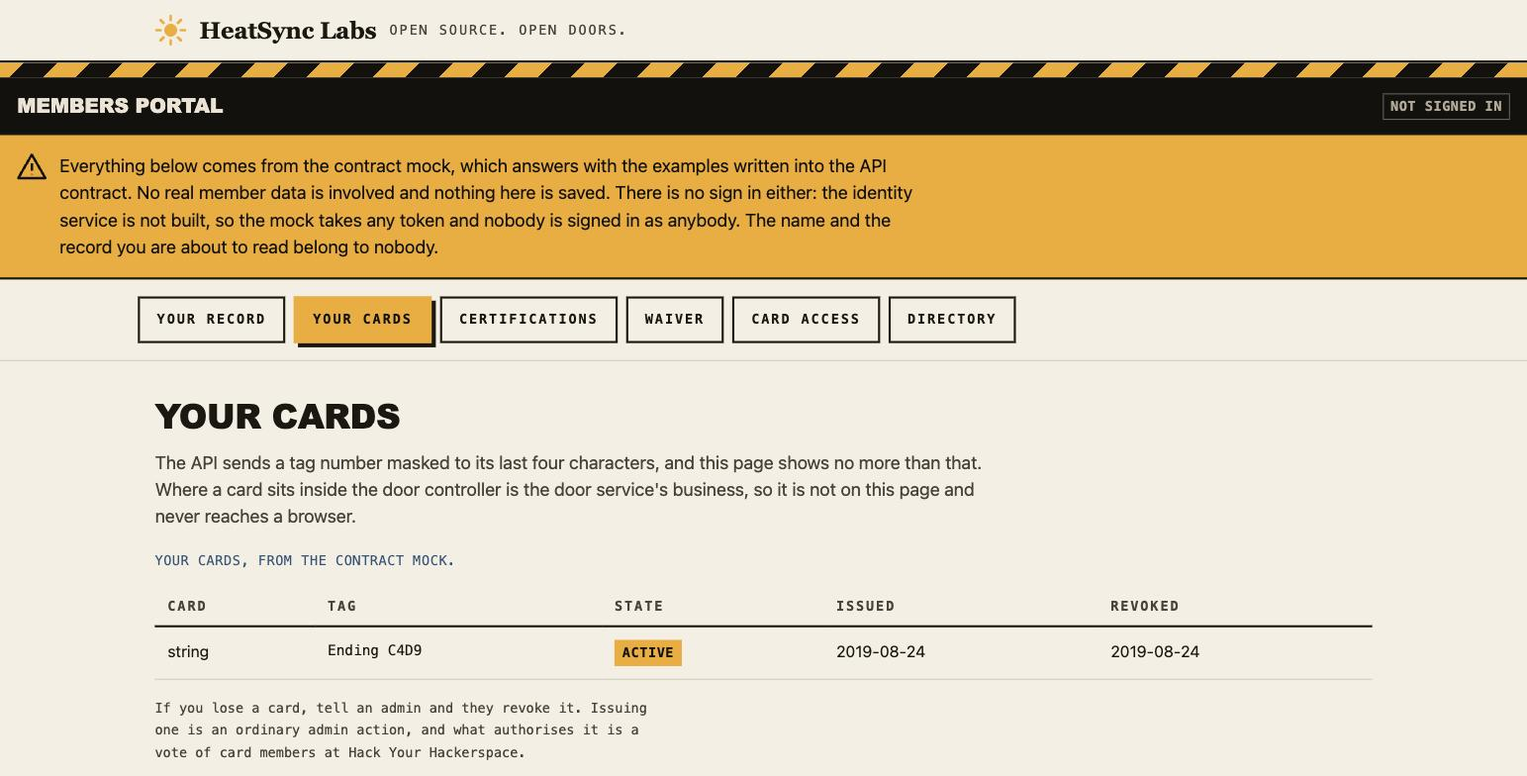
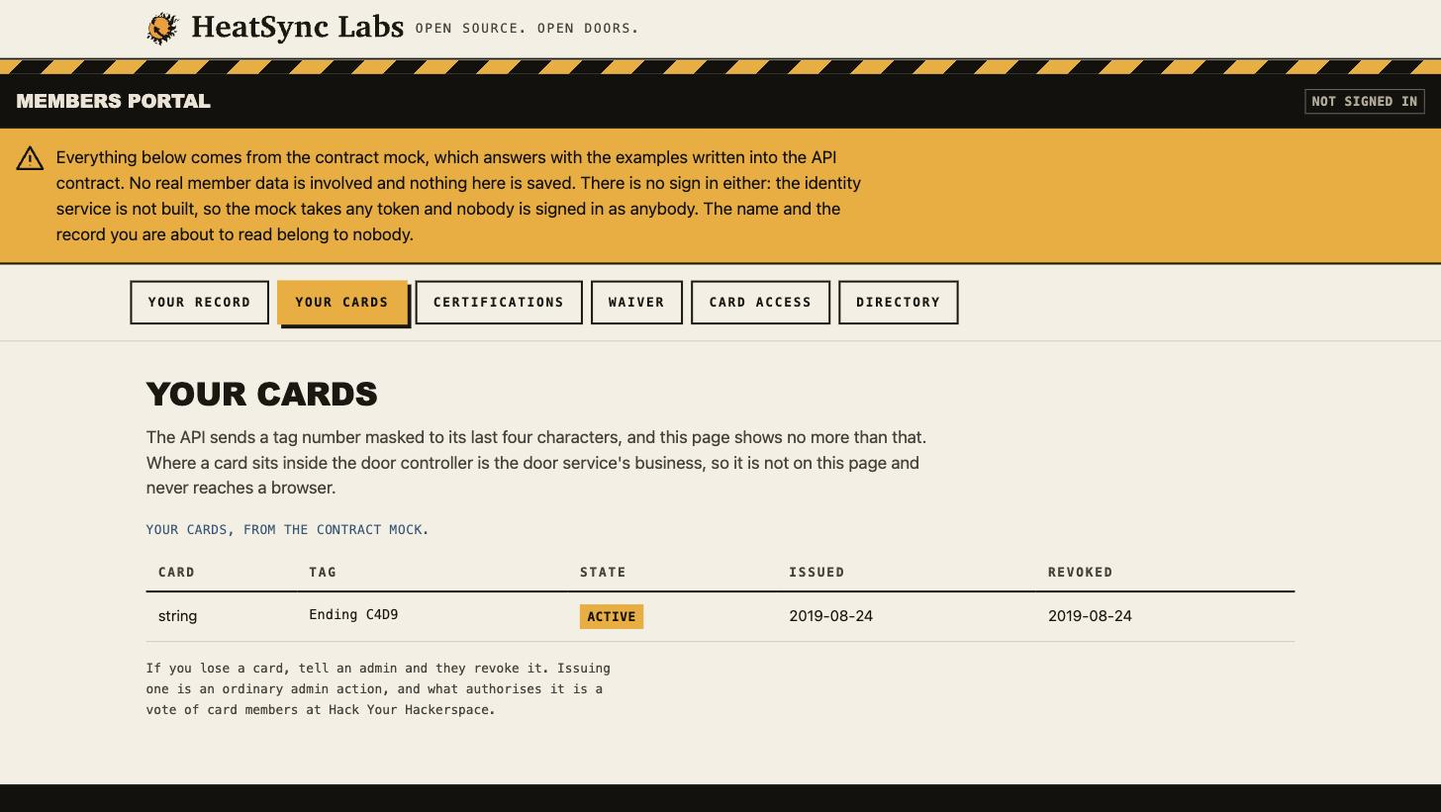
Correct the claims an audit found, including one I put in a commit
The backup row said a roles file is needed because every row level
security policy names oro_api or door_reader. That is false and it took
one command to show: no policy in db/migrations names a role, all
forty three default to PUBLIC. The roles file is needed, for the grants,
which is what the archive is full of. The same false sentence went into
tools/backup/README.md and into the commit message of 432fd1e, where it
cannot be corrected, so it is corrected here instead.

Section 2 carried two rows for docs/runbooks that disagreed, one saying
started and one saying not started, in the table that says of itself it
is the single place this is tracked. The stale one is gone.

The CI row said thirteen jobs were green on run 33231216898. Twelve were
green and the thirteenth was skipped, which the same sentence goes on to
explain about a later run.

The README said the API service is not built while its own roadmap ticked
the first slice four screens later. Both now say the same thing: it
exists, the portal does not read it, and wiring them together needs a
sign in.

The screenshots were the ones taken before the real mark landed, so the
README was illustrating the brand rule violation the commit before this
was written to remove. Retaken.

Two comments in the portal described code that is no longer there. The
one above .sunmark still described a hand drawn sun and sat directly
above the comment that replaced it, and it named a size the rule under it
[…]

Changed region(s): [[0.0, 0.0, 1.0, 0.6735], [0.0, 0.6735, 1.0, 1.0]]

diff --git a/apps/members/index.html b/apps/members/index.html
@@ -26,9 +26,15 @@
      never collapse into the flame colour whatever a page sets. That document
      also forbids redrawing or simplifying the flames, which is what stood here
      until 2026-08-29. The wordmark is Charis SIL 700 outlined, so it needs no
-     font installed anywhere. Both carry their packaged paths unchanged; only
-     the fixed width and height and the accessible name were adjusted, because
-     CSS sizes them and the wordmark beside the mark is the accessible name. -->
+     font installed anywhere.
+
+     Both files are carried unchanged except for the accessible name: the mark
+     is marked aria-hidden and the wordmark keeps the packaged role and label,
+     so the pair is announced once. The packaged width and height stay, and that
+     matters. Stripping them and sizing with CSS alone leaves the element with
+     no intrinsic ratio, and an SVG with no ratio in a flex row falls back to
+     the full width of it, which is what the wordmark did until the attributes
+     went back. -->
 <svg xmlns="http://www.w3.org/2000/svg" viewBox="0 0 1000 1000" width="1000" height="1000" class="sunmark" aria-hidden="true" focusable="false"><g transform="translate(-26,-4) scale(1)"><path fill="#F99A1C" fill-rule="evenodd" d="M418 164c-46.8 2.8 -99.7 19.6 -142.5 45.2 -9.7 5.8 -9.5 5.5 -11.8 17.5l-0.6 3.1 11.4 -5.3c14.4 -6.8 30.5 -12.7 41.8 -15.4 4.9 -1.2 9.1 -2.1 9.4 -2.1 0.3 0 -0.3 1.2 -1.3 2.7 -39.6 59.4 -55.8 104.1 -57.1 157.5 -0.5 19.6 -0.6 19.8 -2.7 19.8 -3.1 0 -12.3 -2.8 -17.1 -5.2 -17.9 -9.1 -48.4 -31.7 -70 -52.1l-7 -6.6 2.4 -4.3c2.8 -5 15.5 -23.1 23.6 -33.5l5.7 -7.2 -1.6 -5.6 -1.7 -5.5 -2.7 3.2c-4.4 5.1 -14.3 18.5 -19.9 26.8 -40.1 60 -57.9 120.2 -56 190 1.6 60.9 17.8 113.3 50.2 162.5 49.5 75.2 136.8 125.7 228.8 132.6l14.9 1.1 3.6 -2.6c13.4 -9.2 31.6 -10.8 45.7 -4l5 2.4 11.1 -2.7 11.2 -2.7 -0.5 -7.6c-0.4 -5.7 -0.1 -9 1.1 -12.8 1.9 -5.6 8.5 -13.8 12.5 -15.4l2.6 -1.1 -2.5 -0.7c-8 -2.3 -41.3 -18.5 -54.7 -26.6 -47.2 -28.3 -80.7 -59.7 -122.3 -114.3l-2.6 -3.3 -6.7 4.1c-12.8 7.8 -32.5 17.1 -36.3 17.1 -3.4 0 -7.7 -4.5 -11 -11.4 -9.3 -19.5 -14.2 -60.3 -13.1 -108.1 0.8 -33.3 3.4 -52.9 9.3 -71.5 3 -9.6 4.7 -12 8.5 -12 3.1 0 5.3 1.7 19.4 15 31.2 29.3 80 54.6 121.9 63.1 7.7 1.5 10.7 2.6 12.6 4.5l2.5 2.5 -2.9 5.2c-3.8 6.9 -18.2 25.7 -30.1 39.3 -5.2 6 -9.5 11.4 -9.5 12 0 0.5 2.1 4.1 4.6 8 17 25.4 50.1 58.2 80.7 79.9 30.6 21.6 67.1 39.6 102.5 50.4 17.4 5.4 18.4 5.3 13.8 -0.1 -10 -11.7 -10.2 -23.9 -0.4 -28.7 3.7 -1.8 6.2 -2.1 15.9 -2.1 22.9 0.1 38.9 6.4 46.6 18.5 1.5 2.5 3.4 4.5 4.2 4.5 2 0 9.1 -7.6 12.5 -13.3l2.7 -4.8 -2.6 -6.7c-3.4 -8.7 -7.2 -14 -11.5 -16.4 -3 -1.7 -4.7 -1.9 -12.6 -1.3 -9.2 0.6 -9.2 0.6 -11.4 -2.2 -1.9 -2.5 -2.1 -3.6 -1.6 -8.9 0.7 -7.2 3.4 -15.4 7.2 -22.4 3.8 -7 14 -16.5 21.6 -20 12.6 -5.8 33.9 -6.3 49.2 -1 3.3 1.1 6.5 2 7.1 2 0.7 0 2.9 -4.6 4.9 -10.2 3.6 -10.5 9 -29.8 8.4 -30.2 -0.2 -0.2 -4.4 -0.8 -9.3 -1.4 -12.9 -1.7 -23.7 -4.7 -33.5 -9.4 -11.3 -5.4 -23.6 -17.4 -26.9 -26.2 -3.1 -8.4 -2.8 -12.4 1.8 -21 2.7 -5.1 4.8 -11.4 7.1 -21.2 2.6 -11.1 3.8 -14.4 5.9 -16.5 2.8 -2.8 10.1 -4.9 17 -4.9 3.1 0 5.1 -1 10.2 -5.1 3.5 -2.8 7.6 -5.7 9.1 -6.5 2.7 -1.4 18.1 -4.4 22.8 -4.4 4.4 0 4.4 1.1 -0.1 -18.7l-2.1 -9.2 -10.3 0.6c-8.7 0.5 -11.3 0.3 -17.3 -1.6 -13.6 -4.1 -23.4 -13.1 -28.1 -25.6 -2.3 -6.2 -2.9 -20.5 -1 -28.3 0.9 -4.2 0.8 -4.6 -2.5 -8.3 -4.4 -4.8 -7.4 -10.5 -8.2 -15.9 -0.7 -4.5 0.3 -6 3.9 -6 3 0 22.8 -8.1 23.3 -9.5 0.7 -1.7 -6.1 -14.3 -9.7 -18.1 -2.9 -3 -3.3 -3.1 -7.2 -2.2 -10.6 2.5 -25.5 -2.4 -34.1 -11.1l-4.6 -4.7 5.2 -1.4c6.7 -1.6 19.8 -7.6 19.8 -8.9 0 -1.5 -14.5 -16.5 -19.1 -19.7 -4 -2.8 -4.7 -2.9 -15.3 -2.9 -10.5 0 -11.5 -0.2 -17.8 -3.3 -4.2 -2 -7.9 -4.7 -9.8 -7.2 -3.5 -4.4 -7 -13.7 -7 -18.5 0 -1.8 -0.8 -3.9 -1.8 -4.8 -3.5 -3.2 -33 -16.7 -48.3 -22.1 -42.6 -15.1 -83.1 -21.1 -124.9 -18.6z"/><path fill="currentColor" fill-rule="evenodd" d="M508.2 6c-19.5 5.1 -32.2 17.8 -48.7 48.6 -7.3 13.5 -10.7 18.5 -18.3 26.9 -8.8 9.5 -11.5 15 -11.6 23 0 4.5 0.6 7.4 2.6 11.7 1.5 3.2 3.1 5.8 3.5 5.8 0.4 0 2.9 -4.5 5.5 -9.9 7.8 -16.5 17 -23.3 36.4 -27.2 12 -2.4 16.3 -4.1 20.9 -8.6 5.4 -5.3 7.5 -10.3 9 -22.3 2.3 -17.1 8.2 -29.9 19.7 -42.5 3.2 -3.4 5.4 -6.5 5.1 -6.9 -1.4 -1.3 -17.1 -0.4 -24.1 1.4z M649 36.1c-4.4 1.8 -9 5.9 -11.2 10.2 -1.8 3.4 -2.3 5.8 -2.3 12.7 0 7.5 0.4 9.2 3 14.4 3.7 7.3 7.3 10.3 10.4 8.7 2 -1.1 2.1 -1.9 2.1 -15.9 0 -13 1 -24.1 2.6 -29.5 0.6 -1.9 -0.8 -2.1 -4.6 -0.6z M567.5 48.7c-9.8 1.3 -20.4 6.5 -28.5 13.9 -13 12.1 -16.8 28.4 -12.1 51.5 1.1 5.2 2.3 12.2 2.6 15.6 0.8 6.4 0 17.9 -1.3 20.1 -0.6 0.9 -3.2 0.6 -10.7 -1l-10 -2.2 0 -6.1c0 -7.3 -3.1 -13.2 -11.1 -21.1 -7.3 -7.3 -10 -16.4 -7.3 -24.3 0.6 -1.8 0.9 -3.5 0.5 -3.8 -1.3 -1.3 -10.8 4.3 -15 8.7 -6 6.4 -8 12.1 -7.4 21.4 0.5 8.3 3.4 14.4 9 19.2 3 2.5 3.1 2.7 0.8 2 -1.4 -0.4 -15 -1 -30.2 -1.3l-27.8 -0.6 0 -4.7c0 -6.1 -3.2 -16.4 -6.5 -21.3 -3.7 -5.3 -10 -9.7 -14.2 -9.7 -3 0 -3.6 0.5 -5.2 4.2 -2.2 5.1 -4.5 7.2 -12.8 12.2 -10.7 6.3 -15.4 14 -15.6 25.4l-0.2 6.7 -5.1 0.9c-5.1 0.8 -5.2 0.8 -10.5 -3.4 -16.5 -13.1 -36.8 -16.2 -59.2 -9 -31.7 10.2 -64.5 46.5 -82.6 91.5 -2.7 6.7 -4.7 9.7 -12.7 18.5 -56.6 62.6 -87.3 137.4 -90.1 219.5 -1.7 52.3 7.9 103.7 27.3 145.4 2.4 5.2 4.3 9.6 4.1 9.8 -0.2 0.2 -2.1 -1 -4.2 -2.7 -7 -5.6 -14.2 -8.4 -21.4 -8.4 -8.4 0 -10.6 1.1 -21.9 11.8 -5 4.6 -11.6 10.1 -14.9 12.2 -3.2 2.1 -5.8 4.3 -5.8 4.9 0 1.9 10.1 6.4 19 8.5 9.9 2.4 18.2 5.7 23.2 9.6 12.2 9.3 25.3 9.7 38.5 1.2 2.7 -1.7 5 -2.9 5.2 -2.7 0.2 0.2 3.1 4.6 6.5 9.6 7.8 11.8 19.4 26.2 30.5 38l8.7 9.2 -5.3 5.4c-10.7 10.9 -13.6 20.6 -10.4 34.7 3.7 16.1 1.6 30.8 -6 42.7 -1.9 3.1 -3.4 5.6 -3.2 5.7 1.2 0.9 14.7 2.6 20 2.6 8 0 20.2 -3 27.1 -6.7 8.5 -4.5 17.7 -14.5 22.6 -24.4 2.3 -4.7 4.5 -10.4 4.8 -12.7 0.3 -2.3 0.8 -4.2 1.2 -4.2 0.3 0 5.6 3 11.7 6.7l11.2 6.7 -3.4 4c-1.9 2.2 -4.6 6.5 -6.1 9.6 -2.4 4.9 -2.7 7.2 -3.4 21 -0.4 8.5 -1.2 18.4 -1.9 22 -2.6 15.2 -8.6 28.4 -17.6 39.4 -3.1 3.7 -5.4 6.9 -5.1 7.2 0.3 0.3 4 1.1 8.2 1.7 9.4 1.3 27.4 -0.3 38.5 -3.4 5.7 -1.6 20.2 -7.7 25 -10.6 0.3 -0.2 0.5 1.3 0.5 3.3 0 7.6 5.1 6.8 16.2 -2.5 12.3 -10.1 24.9 -30.5 30.8 -49.4 1.5 -4.8 3.2 -8.7 3.9 -8.6 0.6 0 4.3 0.6 8.1 1.3 5.1 0.9 6.9 1.6 6.8 2.6 -0.2 0.8 -1 4.9 -1.9 9 -2 9.8 -1.3 20.4 2 27.6 3.1 6.8 9.9 14.1 20.2 21.5 16.7 12.1 25 24.2 26.1 38.2 0.8 10 -1.2 16 -9.4 28.7 -7.2 11.3 -9.6 17.8 -8.4 23.2 1.8 7.8 4.8 10.3 17.1 14.2 10.4 3.4 15.6 6.3 20.3 11.5 4.3 4.8 5.2 7.6 4.4 14.2 -0.5 3.7 -0.3 4.9 0.7 4.9 3.4 0 15.8 -11.7 19.1 -18 3.1 -6 3.1 -13.7 0 -23 -4.9 -14.6 -2.7 -19.9 13.3 -32.8 11.8 -9.6 15.7 -13.9 18.9 -20.9 5.9 -12.9 4 -22.2 -7.7 -37.8 -12.2 -16.3 -13.7 -25.3 -7 -42.2 1.7 -4.3 3.4 -10.5 3.7 -13.8l0.5 -6 12.5 -3.1 12.5 -3 7.2 7c9.1 8.9 21.4 15.5 41.6 22.1 8 2.6 17.9 6.1 22 7.7 14.4 5.7 28 16.9 33.3 27.5 3 5.8 5.7 15.6 5.7 20.6 0 2 0.5 3.9 1.1 4.3 1.8 1.1 9.1 -5 14.7 -12.2 16.4 -21.5 23.5 -50.5 18 -73.4 -3.1 -12.6 -13.3 -27 -25.7 -36 -3.3 -2.4 -5.9 -4.6 -5.6 -4.8 0.2 -0.2 3.4 0.8 7.2 2.3 15.8 6.4 35.8 4.7 51.1 -4.1 2.6 -1.5 8.6 -6.6 13.3 -11.4 9.7 -9.7 9.3 -9.6 16.2 -3.1 6.3 5.9 8.2 10.4 8.2 19.6 0 6.2 -0.6 9.2 -2.4 13.2 -2.8 6.4 -10 13.3 -17.5 17 -3.1 1.5 -5.6 3 -5.6 3.4 0 2.4 20.8 2.7 29.5 0.4 16.4 -4.4 27.9 -17 30.6 -33.5 1.8 -10.9 -1.3 -23.5 -8.1 -33.8 -3.6 -5.3 -14 -16.1 -20.2 -20.8 -2.6 -2 -2.7 -2.4 -1.9 -7.4 0.9 -5.9 -0.2 -19.6 -2.3 -27.7 -1.4 -5.4 -1.4 -5.7 1 -9.5l2.5 -3.9 2.7 2.1c1.5 1.2 9.9 9.2 18.7 17.9 13.8 13.6 17.1 16.3 23.8 19.6 6.5 3.2 9.1 3.9 15.7 4.3 11.6 0.7 12.1 0.2 6.1 -5.8 -10.3 -10.3 -13.4 -29.1 -7.5 -46.7 2.2 -6.5 5.5 -12.3 7 -12.3 2.5 0 8 5.9 10.6 11.2 1.4 2.9 3.8 9.7 5.2 15.2 3.7 14 7.6 21.6 15.1 29.2 4.5 4.6 8.4 7.4 14.1 10.1 7.5 3.6 8.4 3.8 17.9 3.8 11.2 0 15.1 -1.4 22.5 -8.1 3.9 -3.6 8 -10.6 8 -13.8 0 -1.6 -0.3 -1.6 -3.6 0.4 -2.8 1.8 -4.6 2.1 -8.5 1.8 -9.5 -0.9 -12.4 -6.5 -13.9 -25.9 -0.5 -7.4 -1.6 -16 -2.4 -19.1 -6.3 -23.7 -20.8 -40.1 -42.6 -48.4 -7 -2.6 -8.5 -2.8 -21.5 -2.8 -12.7 0.1 -18.5 0.8 -30.5 3.9 -2.5 0.6 -2.5 0.5 4 -19.2 3.6 -10.9 7.4 -23.5 8.4 -27.8 1.1 -4.4 2.2 -8.3 2.6 -8.7 0.3 -0.5 4.4 0.8 9 2.6 9.9 4 17.7 6.3 18.6 5.4 0.3 -0.4 0.1 -2.9 -0.5 -5.5 -0.6 -2.6 -1.3 -6.9 -1.7 -9.4l-0.6 -4.5 15.5 -3.8c8.5 -2 16.8 -4.5 18.5 -5.4 1.8 -0.9 4.5 -3.8 6.1 -6.4 3.5 -5.4 5.9 -6.9 15.8 -9.3 8 -1.9 16.8 -6.7 22.6 -12.3 11.5 -11.1 26.2 -42.5 31.2 -66.7 2.3 -11.1 3.1 -28.9 1.5 -36.7 -1.2 -6.3 -3.4 -11.8 -4.8 -11.8 -0.4 0 -2 4.1 -3.6 9.2 -3.9 12 -9.6 23.7 -14.1 28.7 -10.2 11.3 -32.7 14.7 -66.6 10.2 -7.9 -1.1 -20.5 -2.5 -28 -3.2l-13.6 -1.2 -1.2 -9.3c-0.7 -5 -2.3 -13.6 -3.7 -18.9 -1.3 -5.4 -2.3 -9.9 -2.2 -10 0.2 -0.1 3.2 -2.1 6.8 -4.5 15.4 -10.4 31.7 -29.2 41.3 -47.9 15 -29 19.1 -57.2 18.5 -127.1 -0.3 -31.4 -0.2 -32.8 2 -40.5 3.2 -10.9 8.6 -20.8 15.4 -28.1 9.4 -10.1 26.5 -20.8 41.1 -25.9 4.3 -1.6 8 -3.1 8.2 -3.6 0.3 -0.4 -1.8 -1.4 -4.7 -2.3 -38.6 -11.2 -84.1 -0.5 -108 25.3 -10.3 11 -16.1 22.8 -19.6 39.1 -2.7 12.6 -3.4 14.2 -8.6 19.8 -6.4 6.8 -9.2 13.2 -12.1 27.3 -1.4 6.8 -2.5 12.7 -2.5 13 0 0.4 -1.7 3.1 -3.7 6 -3.2 4.5 -3.8 6.2 -3.6 10.1l0.1 4.8 -4.7 0c-6.2 0 -13.1 3.5 -20.8 10.5l-6.1 5.5 -2.6 -4c-3 -4.5 -3.2 -6.2 -1.1 -8 2.1 -1.7 4.8 -11.6 4.1 -14.6 -0.8 -3.2 -4.5 -4 -10.3 -2 -8.9 3 -10 2.6 -19.9 -7.4 -4.9 -5 -10.3 -10 -12.1 -11.3 -1.8 -1.2 -3.3 -2.5 -3.3 -2.8 0 -0.7 13.1 -6.8 23.3 -10.9 23.8 -9.3 34 -18.8 40.3 -37.5 2.5 -7.3 2.8 -9.4 2.8 -23 0.1 -16.6 -0.9 -21.7 -7.1 -38 -9.1 -24 -12.3 -44.4 -9 -58.3 0.8 -3.4 1.1 -6.2 0.7 -6.2 -1.4 0 -8.6 5.7 -11.9 9.5 -6.1 7 -14.7 21.1 -22 35.9 -7.4 15.2 -16.8 31.6 -23.1 40.1 -5.6 7.6 -12.5 13.5 -26.1 22.5 -14.8 9.8 -18.9 12.9 -25 18.8l-4.7 4.4 -3.6 -1.7c-2 -1 -3.6 -2.2 -3.6 -2.7 0 -0.5 1 -4.6 2.2 -9.1 1.6 -6 2.2 -11.2 2.2 -19.7 0.1 -11.2 0 -11.7 -3.6 -19.1 -2.9 -6.3 -5.4 -9.5 -13.6 -17.6 -13.3 -13.2 -15.7 -17.7 -15.7 -29.8 0 -11 2 -15.7 10.7 -24.4l5.9 -5.8 -3.2 -0.7c-3.3 -0.6 -11.2 -0.6 -16.4 0.1zm-240.2 113.9c2 0.4 3.7 0.9 3.7 1.3 0 0.3 -4.4 2.1 -9.8 4 -10.4 3.6 -34.3 14.6 -39.1 18 -4.6 3.3 -4.5 2.5 1 -4.4 8.1 -10.4 16.4 -16.4 25.3 -18.6 4 -0.9 14 -1.1 18.9 -0.3zm144.7 3c24.5 3 45.7 8.1 70.9 17 15.3 5.4 44.8 18.9 48.3 22.1 1 0.9 1.8 3 1.8 4.8 0 4.8 3.5 14.1 7 18.5 1.9 2.5 5.6 5.2 9.8 7.2 6.3 3.1 7.3 3.3 17.8 3.3 10.6 0 11.3 0.1 15.3 2.9 4.6 3.2 19.1 18.2 19.1 19.7 0 1.3 -13.1 7.3 -19.8 8.9l-5.2 1.4 4.6 4.7c8.6 8.7 23.5 13.6 34.1 11.1 3.9 -0.9 4.3 -0.8 7.2 2.2 3.6 3.8 10.4 16.4 9.7 18.1 -0.5 1.4 -20.3 9.5 -23.3 9.5 -3.6 0 -4.6 1.5 -3.9 6 0.8 5.4 3.8 11.1 8.2 15.9 3.3 3.7 3.4 4.1 2.5 8.3 -1.9 7.8 -1.3 22.1 1 28.3 4.7 12.5 14.5 21.5 28.1 25.6 6 1.9 8.6 2.1 17.3 1.6l10.3 -0.6 2.1 9.2c4.5 19.8 4.5 18.7 0.1 18.7 -4.7 0 -20.1 3 -22.8 4.4 -1.5 0.8 -5.6 3.7 -9.1 6.5 -5.1 4.1 -7.1 5.1 -10.2 5.1 -6.9 0 -14.2 2.1 -17 4.9 -2.1 2.1 -3.3 5.4 -5.9 16.5 -2.3 9.8 -4.4 16.1 -7.1 21.2 -4.6 8.6 -4.9 12.6 -1.8 21 3.3 8.8 15.6 20.8 26.9 26.2 9.8 4.7 20.6 7.7 33.5 9.4 4.9 0.6 9.1 1.2 9.3 1.4 0.6 0.4 -4.8 19.7 -8.4 30.2 -2 5.6 -4.2 10.2 -4.9 10.2 -0.6 0 -3.8 -0.9 -7.1 -2 -15.3 -5.3 -36.6 -4.8 -49.2 1 -7.6 3.5 -17.8 13 -21.6 20 -3.8 7 -6.5 15.2 -7.2 22.4 -0.5 5.3 -0.3 6.4 1.6 8.9 2.2 2.8 2.2 2.8 11.4 2.2 7.9 -0.6 9.6 -0.4 12.6 1.3 4.3 2.4 8.1 7.7 11.5 16.4l2.6 6.7 -2.7 4.8c-3.4 5.7 -10.5 13.3 -12.5 13.3 -0.8 0 -2.7 -2 -4.2 -4.5 -7.7 -12.1 -23.7 -18.4 -46.6 -18.5 -9.7 0 -12.2 0.3 -15.9 2.1 -9.8 4.8 -9.6 17 0.4 28.7 4.6 5.4 3.6 5.5 -13.8 0.1 -35.4 -10.8 -71.9 -28.8 -102.5 -50.4 -30.6 -21.7 -63.7 -54.5 -80.7 -79.9 -2.5 -3.9 -4.6 -7.5 -4.6 -8 0 -0.6 4.3 -6 9.5 -12 11.9 -13.6 26.3 -32.4 30.1 -39.3l2.9 -5.2 -2.5 -2.5c-1.9 -1.9 -4.9 -3 -12.6 -4.5 -41.9 -8.5 -90.7 -33.8 -121.9 -63.1 -14.1 -13.3 -16.3 -15 -19.4 -15 -3.8 0 -5.5 2.4 -8.5 12 -5.9 18.6 -8.5 38.2 -9.3 71.5 -1.1 47.8 3.8 88.6 13.1 108.1 3.3 6.9 7.6 11.4 11 11.4 3.8 0 23.5 -9.3 36.3 -17.1l6.7 -4.1 2.6 3.3c41.6 54.6 75.1 86 122.3 114.3 13.4 8.1 46.7 24.3 54.7 26.6l2.5 0.7 -2.6 1.1c-4 1.6 -10.6 9.8 -12.5 15.4 -1.2 3.8 -1.5 7.1 -1.1 12.8l0.5 7.6 -11.2 2.7 -11.1 2.7 -5 -2.4c-14.1 -6.8 -32.3 -5.2 -45.7 4l-3.6 2.6 -14.9 -1.1c-66.3 -5 -130.4 -32.4 -181.6 -77.9 -45.6 -40.4 -78.7 -98.9 -91.2 -160.7 -4.1 -20.2 -5.6 -34 -6.2 -56.5 -1.9 -69.8 15.9 -130 56 -190 5.6 -8.3 15.5 -21.7 19.9 -26.8l2.7 -3.2 1.7 5.5 1.6 5.6 -5.7 7.2c-8.1 10.4 -20.8 28.5 -23.6 33.5l-2.4 4.3 7 6.6c21.6 20.4 52.1 43 70 52.1 4.8 2.4 14 5.2 17.1 5.2 2.1 0 2.2 -0.2 2.7 -19.8 1.3 -53.4 17.5 -98.1 57.1 -157.5 1 -1.5 1.6 -2.7 1.3 -2.7 -0.3 0 -4.5 0.9 -9.4 2.1 -11.3 2.7 -27.4 8.6 -41.8 15.4l-11.4 5.3 0.6 -3.1c2.3 -12 2.1 -11.7 11.8 -17.5 27.1 -16.2 62.1 -30.4 93.3 -37.8 33.4 -7.9 69.1 -9.9 103.2 -5.8zm233.7 529.1c-2.9 4.5 -6.9 8.3 -11.7 11.2 -4.8 2.9 -5.8 2.6 -2.1 -0.5 1.7 -1.4 5.9 -5.5 9.3 -9 3.4 -3.5 6.3 -6.2 6.5 -6 0.3 0.2 -0.7 2.1 -2 4.3zm-390.9 100.2c1 0.5 -0.4 2.3 -4.8 6.5 -3.4 3.1 -6.4 5.5 -6.7 5.2 -0.4 -0.4 -3.2 -14.8 -3.3 -16.8 0 -0.7 11.8 3.4 14.8 5.1z M311.3 92.7c-0.7 0.2 -1.3 2.1 -1.3 4.1 0 4.3 8.3 30.5 9.8 31 1.3 0.4 7.3 -7.1 10.2 -12.8 1.4 -2.6 2.4 -6.4 2.4 -9.2 0.1 -3.9 -0.4 -5.2 -2.9 -7.8 -4 -4.2 -13.9 -7.1 -18.2 -5.3z M907 199.4c-21.9 5.6 -39.5 22.4 -42.9 41.1 -0.6 3.2 -1.1 13.1 -1.1 21.9 0 22.8 -2.4 31.2 -11.9 43.1 -3.9 4.8 -4 5 -1.8 5.5 4.3 1.1 16 -1 22.4 -4.1 16 -7.6 25.5 -22.1 29.8 -45.4 2.8 -15.3 3.7 -18.3 8 -25.1 7.5 -11.7 19.5 -18.2 40.8 -21.8 2 -0.4 3.7 -1.1 3.7 -1.6 0 -1.5 -11.8 -9.1 -18.4 -11.7 -7.6 -3.1 -20.4 -4 -28.6 -1.9z M977.6 221.5c-16 4.1 -29.3 14.5 -36.6 28.8 -2.3 4.7 -4.4 10.4 -4.7 13 -0.5 4.2 -0.3 4.9 2.6 7.8 3.1 3.1 3.4 3.1 9.9 2.7 12.4 -0.9 21.9 -7.7 34 -24.3 2.8 -3.9 6.5 -8.4 8.4 -10.2 4.7 -4.5 14.3 -10.1 20.8 -12 3 -0.9 5.9 -2 6.4 -2.4 0.5 -0.4 -1.6 -1.5 -4.5 -2.4 -7.5 -2.4 -28.4 -2.9 -36.3 -1z M869.3 557c-5.7 1.2 -9.6 3.4 -12.8 7.2 -2.3 2.7 -2.6 3.9 -2.2 7.5 1.2 10.8 13.6 26.7 25.4 32.5 5.7 2.8 7.7 3.2 13.7 3.2 11.8 -0.1 23 -6.6 31.1 -17.8 3.5 -4.9 8.5 -14.4 8.5 -16.1 0 -0.1 -2.9 0 -6.4 0.2 -8.1 0.7 -14 -1.2 -26.6 -8.4 -5.2 -3 -11 -6.1 -12.8 -6.9 -4.5 -1.9 -12.6 -2.5 -17.9 -1.4z M149.8 693.7c-2.8 3.2 -3.9 9.5 -3.6 20.8 0.3 10.9 0.3 11 2.8 11.3 3.3 0.3 8.5 -3 11.1 -7 4 -6.4 1.3 -18.6 -5.4 -24.9 -2.5 -2.3 -3 -2.4 -4.9 -0.2z M100.9 699.4c-12.6 3.6 -27.1 15.9 -32.6 27.6 -11.6 24.5 -12.7 26.5 -17.1 30.9 -2.6 2.6 -7.5 6.4 -11 8.6 -3.4 2.1 -5.9 4.2 -5.4 4.7 0.4 0.4 5.3 1.9 10.8 3.3 22.3 5.6 48.6 1.8 65.9 -9.5 15.8 -10.3 24.4 -25.2 24.8 -42.9 0.2 -10.2 -2.6 -16.2 -9.7 -20.5 -4.1 -2.5 -5.9 -3 -12.9 -3.3 -4.7 -0.1 -10.2 0.3 -12.8 1.1z M139 798c-6 6 2.5 13.9 13 12 4.9 -0.9 10.2 -5.5 9.8 -8.5 -0.7 -4.6 -18.8 -7.5 -22.8 -3.5z M288.5 896.1c-4.4 1 -13.5 4.9 -13.5 5.8 0 0.3 3.2 2.1 7 4 5.8 2.7 8.5 5 15.3 12.4 18.9 20.8 22.2 23.1 33.2 23.1 8.2 0 13.4 -2.3 18.3 -7.9 2.7 -3 3.2 -4.4 3.2 -8.6 0 -6.5 -2.2 -11 -7.6 -15.8 -10.5 -9.2 -25.2 -14.2 -41.8 -14 -5.6 0.1 -11.9 0.5 -14.1 1z"/></g></svg>
 <svg xmlns="http://www.w3.org/2000/svg" viewBox="0 0 683.79 97.12" width="683.79" height="97.12" class="wordmark-svg" role="img" aria-label="HeatSync Labs"><g transform="translate(-2.979,74.023)"><path fill="currentColor" d="M73.88 0H44.82V-5.08L50 -5.62Q50.93 -5.71 51.56 -6.27Q52.2 -6.84 52.2 -7.81V-31.98H24.71V-7.81Q24.71 -6.84 25.34 -6.27Q25.98 -5.71 26.9 -5.62L32.18 -5.08V0H2.98V-5.08L8.2 -5.62Q9.13 -5.71 9.77 -6.27Q10.4 -6.84 10.4 -7.81V-59.28Q10.4 -60.25 9.77 -60.86Q9.13 -61.47 8.2 -61.52L2.98 -62.01V-67.09H32.18V-62.01L26.9 -61.52Q25.98 -61.47 25.34 -60.86Q24.71 -60.25 24.71 -59.28V-38.38H52.2V-59.28Q52.2 -60.25 51.56 -60.86Q50.93 -61.47 50 -61.52L44.82 -62.01V-67.09H73.88V-62.01L68.7 -61.52Q67.87 -61.47 67.19 -60.86Q66.5 -60.25 66.5 -59.28V-7.81Q66.5 -6.84 67.14 -6.27Q67.77 -5.71 68.7 -5.62L73.88 -5.08Z M126.71 -4.69Q126.71 -4.69 124.07 -3.2Q121.44 -1.71 116.7 -0.24Q111.96 1.22 105.62 1.22Q97.12 1.22 91.46 -2.15Q85.79 -5.52 82.96 -11.18Q80.13 -16.85 80.13 -23.78Q80.13 -31.35 83.25 -37.28Q86.38 -43.21 92.04 -46.61Q97.71 -50 105.32 -50Q113.18 -50 117.87 -46.73Q122.56 -43.46 124.63 -38.23Q126.71 -33.01 126.71 -27.2V-24.8H93.9Q93.9 -16.65 97.92 -11.87Q101.95 -7.08 109.33 -7.08Q114.36 -7.08 118.29 -8.5Q122.22 -9.91 124.46 -11.3Q126.71 -12.7 126.71 -12.7ZM112.4 -30.42V-32.62Q112.4 -37.4 110.52 -40.75Q108.64 -44.09 104.2 -44.09Q100.54 -44.09 98.39 -41.99Q96.24 -39.89 95.31 -36.74Q94.38 -33.59 94.38 -30.42Z M183.4 0H164.79L163.48 -4.98Q163.48 -4.98 162.01 -4.05Q160.55 -3.12 158.08 -1.88Q155.62 -0.63 152.51 0.29Q149.41 1.22 146.09 1.22Q140.67 1.22 136.84 -2.29Q133.01 -5.81 133.01 -11.72Q133.01 -15.09 133.98 -17.7Q134.96 -20.31 137.99 -22.53Q141.02 -24.76 147.14 -26.83Q153.27 -28.91 163.57 -31.2Q163.57 -32.32 163.62 -33.72Q163.67 -35.11 163.67 -35.11Q163.72 -37.01 163.04 -39.16Q162.35 -41.31 160.33 -42.85Q158.3 -44.38 154.3 -44.38Q152.25 -44.38 151.12 -44.19Q150 -43.99 150 -43.99V-34.52H139.7Q139.7 -34.52 138.57 -34.57Q137.45 -34.62 136.33 -35.33Q135.21 -36.04 135.21 -38.09Q135.21 -40.87 137.16 -43.07Q139.11 -45.26 142.36 -46.83Q145.61 -48.39 149.56 -49.19Q153.52 -50 157.47 -50Q163.23 -50 167.58 -48.75Q171.92 -47.51 174.37 -43.87Q176.81 -40.23 176.81 -33.01V-7.32Q176.81 -6.4 177.44 -5.74Q178.08 -5.08 179 -4.98L183.4 -4.69ZM163.48 -9.28V-25.78Q157.03 -24.51 153.49 -23.05Q149.95 -21.58 148.56 -19.56Q147.17 -17.53 147.17 -14.5Q147.17 -11.43 149.17 -9.25Q151.17 -7.08 154.3 -7.08Q156.45 -7.08 158.57 -7.62Q160.69 -8.15 162.08 -8.72Q163.48 -9.28 163.48 -9.28Z M222.22 -2.2Q222.22 -2.2 219.9 -1.34Q217.58 -0.49 213.92 0.37Q210.25 1.22 206.2 1.22Q199.56 1.22 196.83 -1.78Q194.09 -4.79 194.09 -11.08V-42.38H187.5V-46.39L195.21 -50.98L200.59 -61.62H207.52V-48.78H221.39V-42.38H207.52V-15.19Q207.52 -10.4 209.62 -8.45Q211.72 -6.49 215.72 -6.49Q218.12 -6.49 220.17 -6.84Q222.22 -7.18 222.22 -7.18Z M272.51 -19.58Q272.51 -12.55 268.77 -7.84Q265.04 -3.12 258.96 -0.76Q252.88 1.61 245.8 1.61Q240.14 1.61 234.69 0.32Q229.25 -0.98 226.32 -2.2V-20.51H234.23L235.89 -8.4Q235.99 -7.81 236.5 -7.35Q237.01 -6.88 237.21 -6.88Q238.48 -6.35 240.65 -5.76Q242.82 -5.18 244.92 -5.18Q247.9 -5.18 250.85 -6.13Q253.81 -7.08 255.81 -9.18Q257.81 -11.28 257.81 -14.6Q257.81 -18.12 255.96 -20.65Q254.1 -23.19 250.44 -25.51Q246.78 -27.83 241.31 -30.62Q237.74 -32.47 234.64 -34.79Q231.54 -37.11 229.61 -40.41Q227.69 -43.7 227.69 -48.39Q227.69 -54.88 231.03 -59.42Q234.38 -63.96 239.87 -66.33Q245.36 -68.7 251.81 -68.7Q257.42 -68.7 262.65 -67.33Q267.87 -65.97 270.7 -64.7V-48.29H262.99L261.33 -58.98Q261.28 -59.28 260.82 -59.69Q260.35 -60.11 259.91 -60.4Q259.38 -60.94 257.81 -61.47Q256.25 -62.01 253.91 -62.01Q248.97 -62.01 245.29 -59.72Q241.6 -57.42 241.6 -52.98Q241.6 -49.46 243.51 -47Q245.41 -44.53 248.51 -42.7Q251.61 -40.87 255.13 -39.11Q259.67 -36.87 263.65 -34.38Q267.63 -31.88 270.07 -28.37Q272.51 -24.85 272.51 -19.58Z M331.93 -44.09 326.61 -43.41 309.33 -0.98Q308.11 2 306.49 5.62Q304.88 9.23 302.81 12.7Q300.73 16.16 298 18.7Q295.9 20.7 293.43 21.9Q290.97 23.1 288.04 23.1Q286.08 23.1 284.01 22.09Q281.93 21.09 280.54 19.29Q279.15 17.48 279.2 15.09Q279.2 12.3 281.03 10.47Q282.86 8.64 285.01 7.71L293.51 14.21Q295.31 12.5 296.83 10.01Q298.34 7.52 299.41 5.05Q300.49 2.59 300.93 0.88L283.11 -43.51L277.2 -44.09V-48.78H303.52V-44.09L298.93 -43.8Q298 -43.75 297.53 -43.09Q297.07 -42.43 297.41 -41.6L307.71 -15.92L318.31 -41.6Q318.6 -42.33 318.12 -43.04Q317.63 -43.75 316.8 -43.8L312.4 -44.09V-48.78H331.93Z M391.7 0H367.09V-4.69L370.8 -4.98Q371.73 -5.08 372.36 -5.74Q373 -6.4 373 -7.32V-30.81Q373 -34.62 371.14 -37.72Q369.29 -40.82 364.79 -40.82Q360.69 -40.82 357.96 -40.16Q355.22 -39.5 355.22 -39.5V-7.32Q355.22 -6.4 355.91 -5.74Q356.59 -5.08 357.52 -4.98L360.5 -4.69V0H336.04V-4.69L339.6 -4.98Q340.53 -5.08 341.16 -5.74Q341.8 -6.4 341.8 -7.32V-40.82H334.91V-44.92L350 -50H355.22V-43.9Q355.22 -43.9 356.71 -44.82Q358.2 -45.75 360.74 -46.95Q363.28 -48.14 366.38 -49.07Q369.48 -50 372.71 -50Q378.47 -50 381.4 -47.46Q384.33 -44.92 385.33 -40.94Q386.33 -36.96 386.33 -32.62V-7.32Q386.33 -6.4 387.01 -5.74Q387.7 -5.08 388.62 -4.98L391.7 -4.69Z M442.43 -4.39Q440.72 -3.47 437.84 -2.12Q434.96 -0.78 431.13 0.22Q427.29 1.22 422.71 1.22Q414.94 1.22 409.55 -2.2Q404.15 -5.62 401.34 -11.23Q398.54 -16.85 398.54 -23.39Q398.54 -31.3 402 -37.3Q405.47 -43.31 411.33 -46.66Q417.19 -50 424.32 -50Q432.18 -50 436.89 -46.9Q441.6 -43.8 441.6 -39.01Q441.6 -35.64 439.31 -33.57Q437.01 -31.49 433.54 -31.49Q431.35 -31.49 430.05 -32.15Q428.76 -32.81 427.83 -33.59V-44.82Q427.29 -44.92 426.88 -44.92Q426.46 -44.92 425.93 -44.92Q422.9 -44.92 419.97 -42.85Q417.04 -40.77 415.14 -36.65Q413.23 -32.52 413.23 -26.32Q413.23 -17.53 417.29 -12.35Q421.34 -7.18 428.42 -7.18Q431.49 -7.18 434.45 -8.2Q437.4 -9.23 439.6 -10.42Q441.8 -11.62 442.43 -12.11Z M528.61 0H477.49V-5.08L483.01 -5.62Q483.94 -5.71 484.57 -6.27Q485.21 -6.84 485.21 -7.81V-59.28Q485.21 -60.25 484.57 -60.84Q483.94 -61.43 483.01 -61.52L477.49 -62.01V-67.09H507.32V-62.01L501.71 -61.52Q500.78 -61.43 500.15 -60.84Q499.51 -60.25 499.51 -59.28V-6.1H516.89Q517.97 -6.1 518.6 -6.96Q519.24 -7.81 519.29 -8.4L520.61 -19.92H528.61Z M583.84 0H565.23L563.92 -4.98Q563.92 -4.98 562.45 -4.05Q560.99 -3.12 558.52 -1.88Q556.05 -0.63 552.95 0.29Q549.85 1.22 546.53 1.22Q541.11 1.22 537.28 -2.29Q533.45 -5.81 533.45 -11.72Q533.45 -15.09 534.42 -17.7Q535.4 -20.31 538.43 -22.53Q541.46 -24.76 547.58 -26.83Q553.71 -28.91 564.01 -31.2Q564.01 -32.32 564.06 -33.72Q564.11 -35.11 564.11 -35.11Q564.16 -37.01 563.48 -39.16Q562.79 -41.31 560.77 -42.85Q558.74 -44.38 554.74 -44.38Q552.69 -44.38 551.56 -44.19Q550.44 -43.99 550.44 -43.99V-34.52H540.14Q540.14 -34.52 539.01 -34.57Q537.89 -34.62 536.77 -35.33Q535.64 -36.04 535.64 -38.09Q535.64 -40.87 537.6 -43.07Q539.55 -45.26 542.8 -46.83Q546.04 -48.39 550 -49.19Q553.96 -50 557.91 -50Q563.67 -50 568.02 -48.75Q572.36 -47.51 574.8 -43.87Q577.25 -40.23 577.25 -33.01V-7.32Q577.25 -6.4 577.88 -5.74Q578.52 -5.08 579.44 -4.98L583.84 -4.69ZM563.92 -9.28V-25.78Q557.47 -24.51 553.93 -23.05Q550.39 -21.58 549 -19.56Q547.61 -17.53 547.61 -14.5Q547.61 -11.43 549.61 -9.25Q551.61 -7.08 554.74 -7.08Q556.88 -7.08 559.01 -7.62Q561.13 -8.15 562.52 -8.72Q563.92 -9.28 563.92 -9.28Z M642.14 -27.39Q642.14 -19.73 638.72 -13.5Q635.3 -7.28 628.76 -3.64Q622.22 0 612.84 0H594.53V-64.89H587.55V-68.99L602.83 -74.02H607.96V-45.41Q610.21 -46.88 614.28 -48.44Q618.36 -50 622.46 -50Q627.83 -50 632.3 -47.34Q636.77 -44.68 639.45 -39.62Q642.14 -34.57 642.14 -27.39ZM627.64 -24.41Q627.64 -32.52 623.97 -37.11Q620.31 -41.7 613.23 -41.7Q611.91 -41.7 610.4 -41.5Q608.89 -41.31 607.96 -41.11V-5.62Q608.5 -5.57 609.03 -5.54Q609.57 -5.52 610.06 -5.52Q618.36 -5.52 623 -9.64Q627.64 -13.77 627.64 -24.41Z M685.16 -33.5H678.96L677.88 -41.5Q675.73 -43.99 670.07 -43.99Q666.55 -43.99 664.55 -42.55Q662.55 -41.11 662.55 -38.48Q662.55 -35.5 665.62 -33.35Q668.7 -31.2 672.66 -29.2Q676.03 -27.54 679.27 -25.56Q682.52 -23.58 684.64 -20.97Q686.77 -18.36 686.77 -14.6Q686.77 -8.79 683.74 -5.32Q680.71 -1.86 676.03 -0.32Q671.34 1.22 666.36 1.22Q660.99 1.22 656.08 0.29Q651.17 -0.63 648.58 -1.51V-16.7H654.88L656.05 -7.52Q656.2 -7.23 657.86 -6.54Q659.52 -5.86 661.65 -5.27Q663.77 -4.69 665.38 -4.69Q668.8 -4.69 670.65 -5.81Q672.51 -6.93 673.24 -8.45Q673.97 -9.96 673.97 -11.08Q673.97 -14.11 671.07 -15.99Q668.16 -17.87 663.62 -19.97Q656.15 -23.49 652.66 -26.73Q649.17 -29.98 649.17 -34.81Q649.17 -39.45 651.76 -42.87Q654.35 -46.29 658.89 -48.14Q663.43 -50 669.24 -50Q674.66 -50 678.93 -49.1Q683.2 -48.19 685.16 -47.31Z"/></g></svg>
 <p class="tag">Open Source. Open Doors.</p>

diff --git a/apps/members/members.css b/apps/members/members.css
@@ -76,15 +76,17 @@ body {
 	padding: var(--space-3) max(var(--space-4), var(--safe-l));
 }
 
-/* The sun off the HeatSync mark, drawn rather than fetched, so it inherits a
- * token colour and needs no file. It carries no accessible name: the wordmark
- * beside it is the name, and a screen reader saying the lab twice is worse
- * than saying it once. */
 /* references/logos.md sets the floor at 24px for the mark on its own and says
- * anything smaller wants a one colour file. 30px clears it. The colour set here
- * reaches the flames only: the sun disc carries the logo orange inside the file
- * and must never take the flame colour, because the two pieces merging is the
- * one misuse that stops it being the HeatSync mark. */
+ * anything smaller wants a one colour file. 34px clears it, and 34 against the
+ * wordmark's 23px cap height is the lockup proportion that document measures
+ * off the live site.
+ *
+ * The colour set here reaches the flames only. The sun disc carries the logo
+ * orange inside the file and must never take the flame colour: the two pieces
+ * merging is the one misuse that stops it being the HeatSync mark.
+ *
+ * It carries no accessible name. The wordmark beside it is the name, and a
+ * screen reader saying the lab twice is worse than saying it once. */
 .sunmark {
 	width: 34px;
 	height: 34px;

diff --git a/HANDOFF.md b/HANDOFF.md
@@ -40,7 +40,7 @@ This table is the single place this is tracked. Update it as things land.
 | The plan documents | **Written.** Reviewed adversarially twice |
 | The identity service, in the stack | **Built.** Zitadel 4.17.1 in `compose.yaml` with its own database and login on the existing Postgres server, ten minute access tokens, and a first instance created from configuration with no console click. Reached at `id.HOSTNAME` on a deployment and on `ORO_IDENTITY_PORT` on a laptop. [ADR 0004](docs/decisions/0004-identity-service.md) |
 | `tools/identity/` password proof | **Built.** 16 checks, part of `make identity-test`, in CI. A further 6 checks in `check_api_refusals.py` need nothing running and go first: they hold `api.search` to reporting a refused search as a refusal, which it did not do until 2026-08-28, and to raising something a check suite can catch. Part (a) of the phase 2 proof: hashes written by bcrypt-ruby at cost 10 with no pepper, imported and signed in with. It found a real defect, in `tools/identity/README.md` |
-| `tools/backup/` backup and the restore drill | **Built.** `make backup`, `make restore`, `make backup-test`, in CI. Gate one of rule 12, which is the first thing above every phase. A backup is two files: the database archive and a roles file, because `oro_api` and `door_reader` are cluster roles that a database archive does not carry and every policy names one, so a restore without them dies on the first GRANT. The drill backs up a migrated database, destroys the cluster, restores, and compares 95 things including every card's slot. A restore over a database holding members is refused until the caller names how many they are destroying. **It proves the mechanism, not the lab's data**: phase 0 still needs a shell on hsl-web. No timer and no offsite copy, so a fire in the lab takes the backups with the server |
+| `tools/backup/` backup and the restore drill | **Built.** `make backup`, `make restore`, `make backup-test`, in CI. Gate one of rule 12, which is the first thing above every phase. A backup is two files: the database archive and a roles file, because `oro_api` and `door_reader` are cluster roles that a database archive does not carry, and the archive is full of `GRANT ... TO oro_api`, so a restore without them dies on the first grant. An earlier version of this row, and the commit message that introduced it, said every policy names one of those roles. That is false and was measured: no policy in `db/migrations` names a role at all, every one of them defaults to PUBLIC. The grants are the reason, not the policies. The drill backs up a migrated database, destroys the cluster, restores, and compares 95 things including every card's slot. A restore over a database holding members is refused until the caller names how many they are destroying. **It proves the mechanism, not the lab's data**: phase 0 still needs a shell on hsl-web. No timer and no offsite copy, so a fire in the lab takes the backups with the server |
 | `docs/runbooks/` | **Started.** One file, the restore runbook, which is what created the directory. Eight numbered steps with the output each one prints |
 | `tools/bootstrap/` seat the first three admins | **Built.** `make bootstrap-admins`, in CI. The only path from an empty database to somebody who can administer it, and it spends the escape `013_bootstrap_three_admins.sql` opens. Per person: an identity account, then `link_or_create_member`, then the role, in that order because a member row holding a role is not claimable afterwards. The handover password goes to the terminal and to no file. Safe to run twice, and the fourth admin is refused by the database rather than by the script |
 | `tools/migration/` the legacy import | **Built.** `make migration-test`, in CI. Members, cards, the `admin` and `accountant` booleans as roles, and the waiver date as a pointer to where the document is kept. A preflight refuses to start while anything needs a person and names the rows. Eleven cases: ten imports of the same fixture, three that carry and seven that must be refused, plus one that runs the role step alone. Every refusal is checked by its text and not only its exit code. The fixture was written by a replica of the legacy application through its own models |
@@ -59,11 +59,10 @@ This table is the single place this is tracked. Update it as things land.
 | `packages/gantry-css`, `gantry-vue` | Not started. Later in phase 1 and after |
 | `compose.yaml`, `compose.development.yaml`, `Makefile`, `.env.example`, `caddy/`, `db/init/` | **Built.** Postgres, Caddy and the identity service. The override file adds the mock, points Caddy at the development routes and publishes the identity service on a port, so the portal and the mock share one origin over plain HTTP and a browser can open a login screen. `make up` on a clean machine, proven |
 | `docs/api/members-v1.yaml` | **Written.** OpenAPI 3.1.1, validates clean. Still needs the review by somebody who did not write it that phase 1 asks for |
-| `.github/workflows/ci.yml` and `tools/ci/` | **Built.** Fifteen jobs. Twelve were green on a real runner on run 33228017933 on 2026-08-29 and thirteen on run 33231216898 the same day. All fifteen were green on run 33236264196 on 2026-08-29, except the commit message job, which is gated to pull requests and is skipped on a push to main. They run in parallel, so the wall clock is the slowest job and not the sum. Measured on run 33236264196, the first with all fifteen: development stack and identity 54s each, legacy import and first three admins 48s each, members portal and members API 25s each, restore drill 24s, database 18s, mock 14s, contract 12s, prose and door 8s, theme 6s, ceilings 4s. The lead moves around: the migration job held it at 58s on run 33228017933 and is third here, so re-measure rather than quoting this. Ten of the fifteen start containers, the ceilings one included, because it runs ruff as a pinned image rather than installing it. A separate workflow, the deploy, is dormant and runs only on `workflow_dispatch` with the hostname typed in |
+| `.github/workflows/ci.yml` and `tools/ci/` | **Built.** Fifteen jobs. Twelve were green on run 33228017933 on 2026-08-29, and on run 33231216898 the same day thirteen ran with twelve green and the commit message job skipped. All fifteen were green on run 33236264196 on 2026-08-29, except the commit message job, which is gated to pull requests and is skipped on a push to main. They run in parallel, so the wall clock is the slowest job and not the sum. Measured on run 33236264196, the first with all fifteen: development stack and identity 54s each, legacy import and first three admins 48s each, members portal and members API 25s each, restore drill 24s, database 18s, mock 14s, contract 12s, prose and door 8s, theme 6s, ceilings 4s. The lead moves around: the migration job held it at 58s on run 33228017933 and is third here, so re-measure rather than quoting this. Ten of the fifteen start containers, the ceilings one included, because it runs ruff as a pinned image rather than installing it. A separate workflow, the deploy, is dormant and runs only on `workflow_dispatch` with the hostname typed in |
 | File and function ceiling linting | **Built.** `make ceilings`, in CI, with 8 tests of its own over a throwaway repository: five put one violation in it and assert the checker catches it, three put something that is not a violation in it and assert the checker stays quiet. Ruff in a pinned container for complexity, parameters and nesting depth, and `tools/ceilings/check_ceilings.py` for the two ceilings no tool measures. [ADR 0005](docs/decisions/0005-file-and-function-ceilings.md). Two files are exempt with a reason, and an exemption that stops being needed fails the check |
 | Import boundary linting | **Decided, not built.** [ADR 0006](docs/decisions/0006-import-boundaries.md): there is no TypeScript at all and only `services/door` is an importable Python package, so neither gate has anything to refuse yet. Each lands with the first code that gives it something |
 | `tools/attributions/generate.py` | Not started. Needs a lockfile first |
-| `docs/runbooks/` | Not started. The directory exists on disk, empty and untracked, so a fresh clone does not have it. It gets its first file with the first runbook |
 | `CODEOWNERS`, `.sops.yaml` | Not started. Created with the first real name and the first secret |
 
 ## 3. Run everything

diff --git a/README.md b/README.md
@@ -15,7 +15,7 @@ whole thing on a laptop today, with invented data.
 
 Those are real screenshots of `make development` on a laptop. The amber band is
 there because the portal is reading a mock of the API contract, not a database.
-The API service is not built yet.
+The API service exists as a first slice, and the portal does not read it yet: wiring the two together needs a sign in, which is the rest of phase 3.
 
 ---
 
@@ -106,7 +106,7 @@ One override file is the whole difference.
 | Scheme | plain HTTP, nothing redirects | HTTPS, and plain HTTP redirects to it |
 | Certificate | none, so nothing to click through | from `ORO_TLS`, either Caddy's local authority or Let's Encrypt |
 | The root serves | the members portal | a 404 saying no application is deployed here yet |
-| `/v1/*` | the contract mock | nothing. There is no API service yet |
+| `/v1/*` | the contract mock | nothing yet. `services/api` is built but not wired into either shape |
 | Identity service | `localhost:8180`, loopback only | `id.YOURHOST`, through Caddy |
 | The mock | running | absent. It never reaches a deployment |
 

diff --git a/apps/members/README.md b/apps/members/README.md
@@ -6,8 +6,10 @@ The six self service views a member has of their own record: the record itself,
 their cards, their certifications, their waiver, whether they can be nominated
 for card access, and the member directory.
 
-It reads the members API contract through a mock. There is no API service and no
-database behind it. Every name, card, date and skill it shows is an example out
+It reads the members API contract through a mock. `services/api` now exists as
+a first slice, and this portal does not read it: doing that needs a sign in,
+which is the rest of phase 3. So there is still no service and no database
+behind this page. Every name, card, date and skill it shows is an example out
 of `docs/api/members-v1.yaml`, and the page says so at the top where a reader
 cannot miss it.
 
